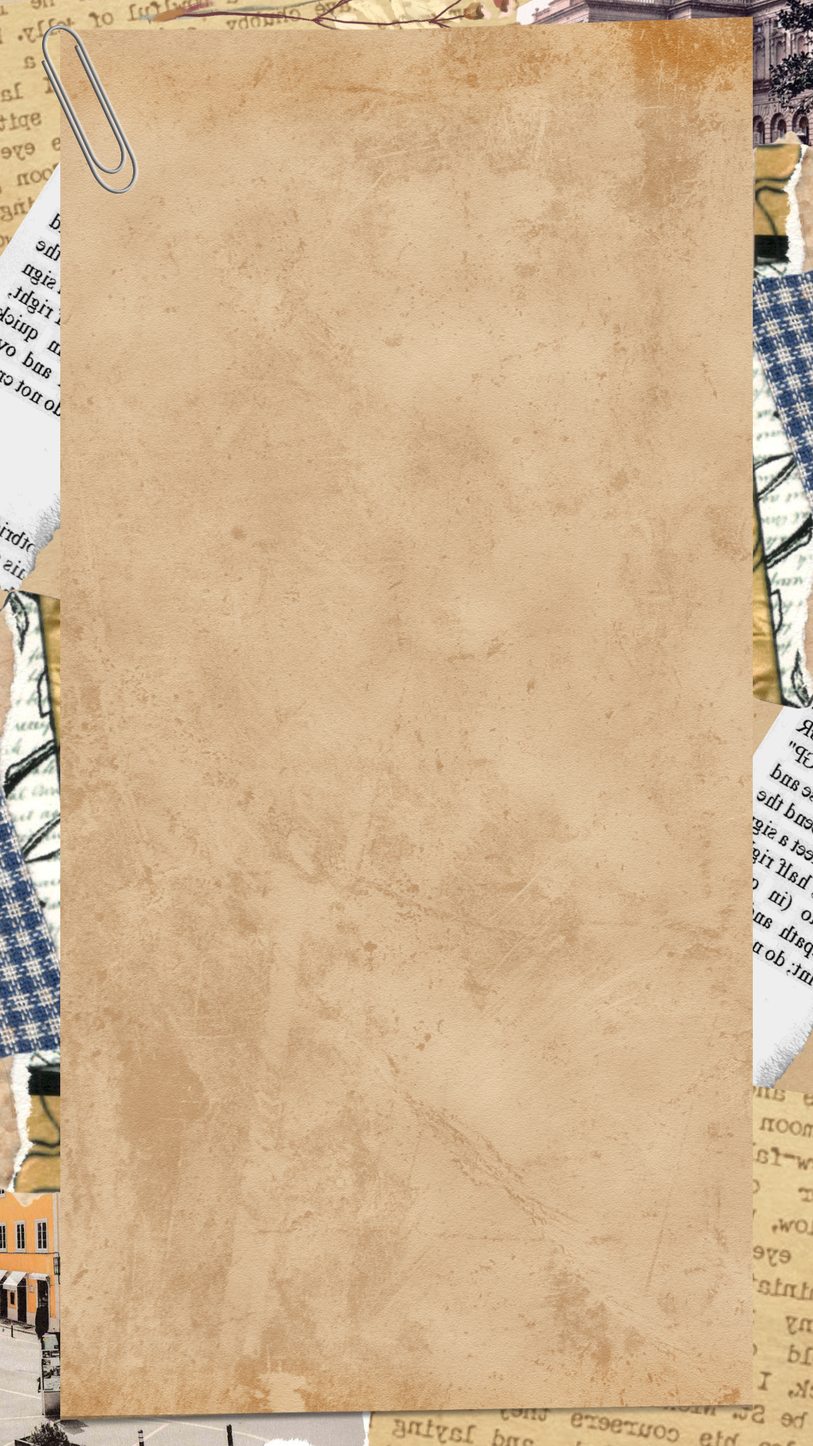
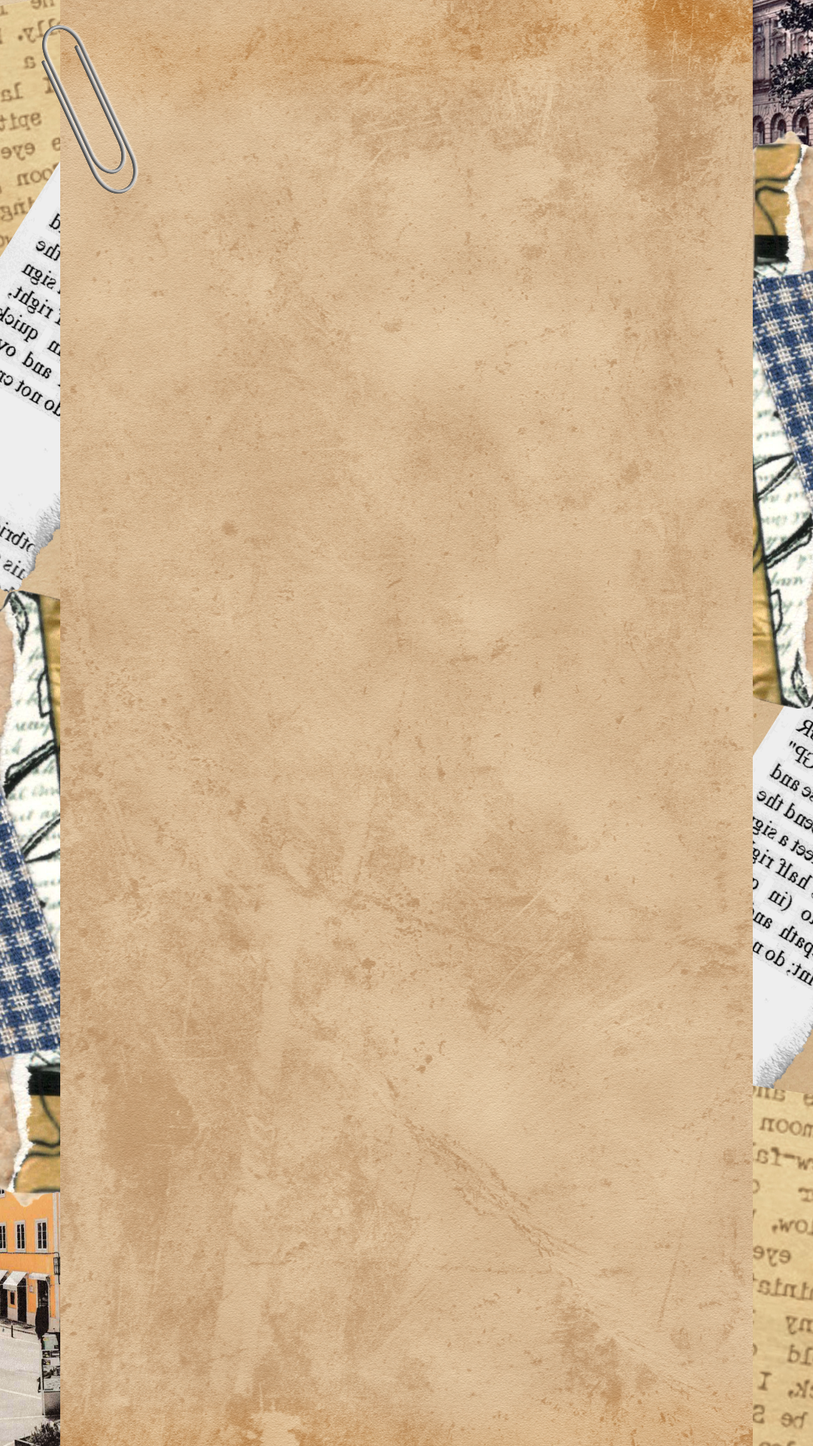
commit

diff --git a/style.css b/style.css
@@ -1069,7 +1069,7 @@ button:hover {
   width: 100%;
   padding: 30px;
   position: relative;
-  background-image: url("images/voback.png");
+  background-image: url("images/backnew.png");
   background-size: cover;
   background-position: center;
   background-repeat: no-repeat;
